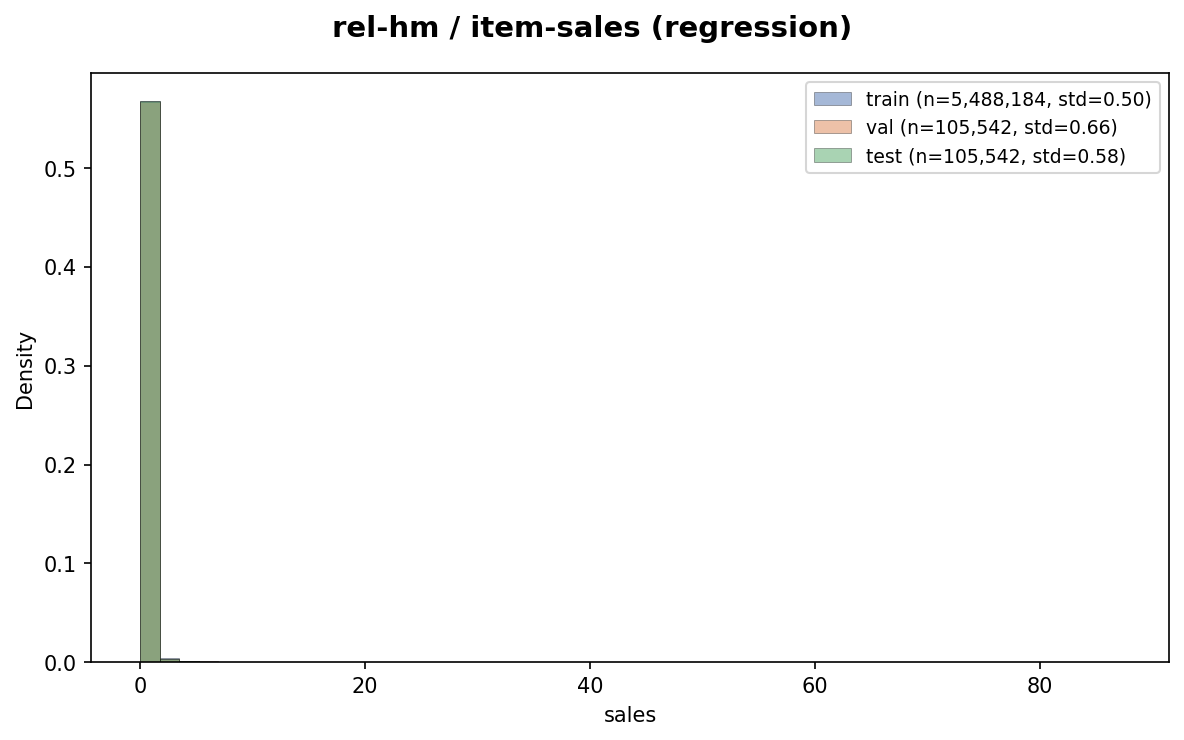
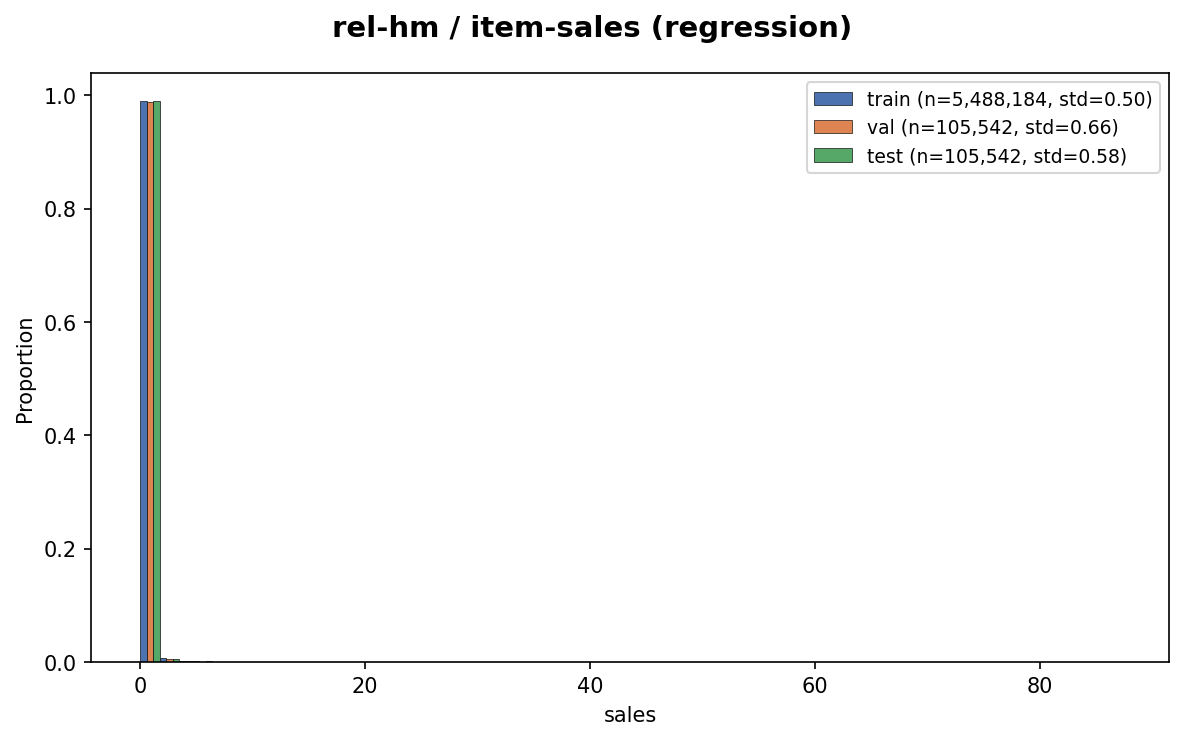
Use side-by-side bars for regression label distribution plots

diff --git a/relbench_neighbor_check/plot_label_distributions.py b/relbench_neighbor_check/plot_label_distributions.py
@@ -77,15 +77,21 @@ for dataset_name, task_names in dataset_task_dict.items():
             ax.set_ylabel("Proportion")
         else:
             all_vals = np.concatenate([l.values for l in split_labels.values()])
-            bins = np.linspace(all_vals.min(), all_vals.max(), 51)
+            bin_edges = np.linspace(all_vals.min(), all_vals.max(), 51)
+            n_splits = len(split_labels)
+            bin_width = (bin_edges[1] - bin_edges[0]) / n_splits
 
-            for split, labels in split_labels.items():
-                ax.hist(labels.values, bins=bins, density=True, alpha=0.5,
-                        color=split_colors[split], edgecolor="black", linewidth=0.3,
-                        label=f"{split} (n={len(labels):,}, std={labels.std():.2f})")
+            for i, (split, labels) in enumerate(split_labels.items()):
+                counts, _ = np.histogram(labels.values, bins=bin_edges)
+                proportions = counts / counts.sum()
+                bar_positions = bin_edges[:-1] + i * bin_width
+                ax.bar(bar_positions, proportions, width=bin_width,
+                       align="edge", color=split_colors[split],
+                       edgecolor="black", linewidth=0.3,
+                       label=f"{split} (n={len(labels):,}, std={labels.std():.2f})")
 
             ax.set_xlabel(task.target_col)
-            ax.set_ylabel("Density")
+            ax.set_ylabel("Proportion")
 
         ax.legend(fontsize=9)
         fig.tight_layout()
